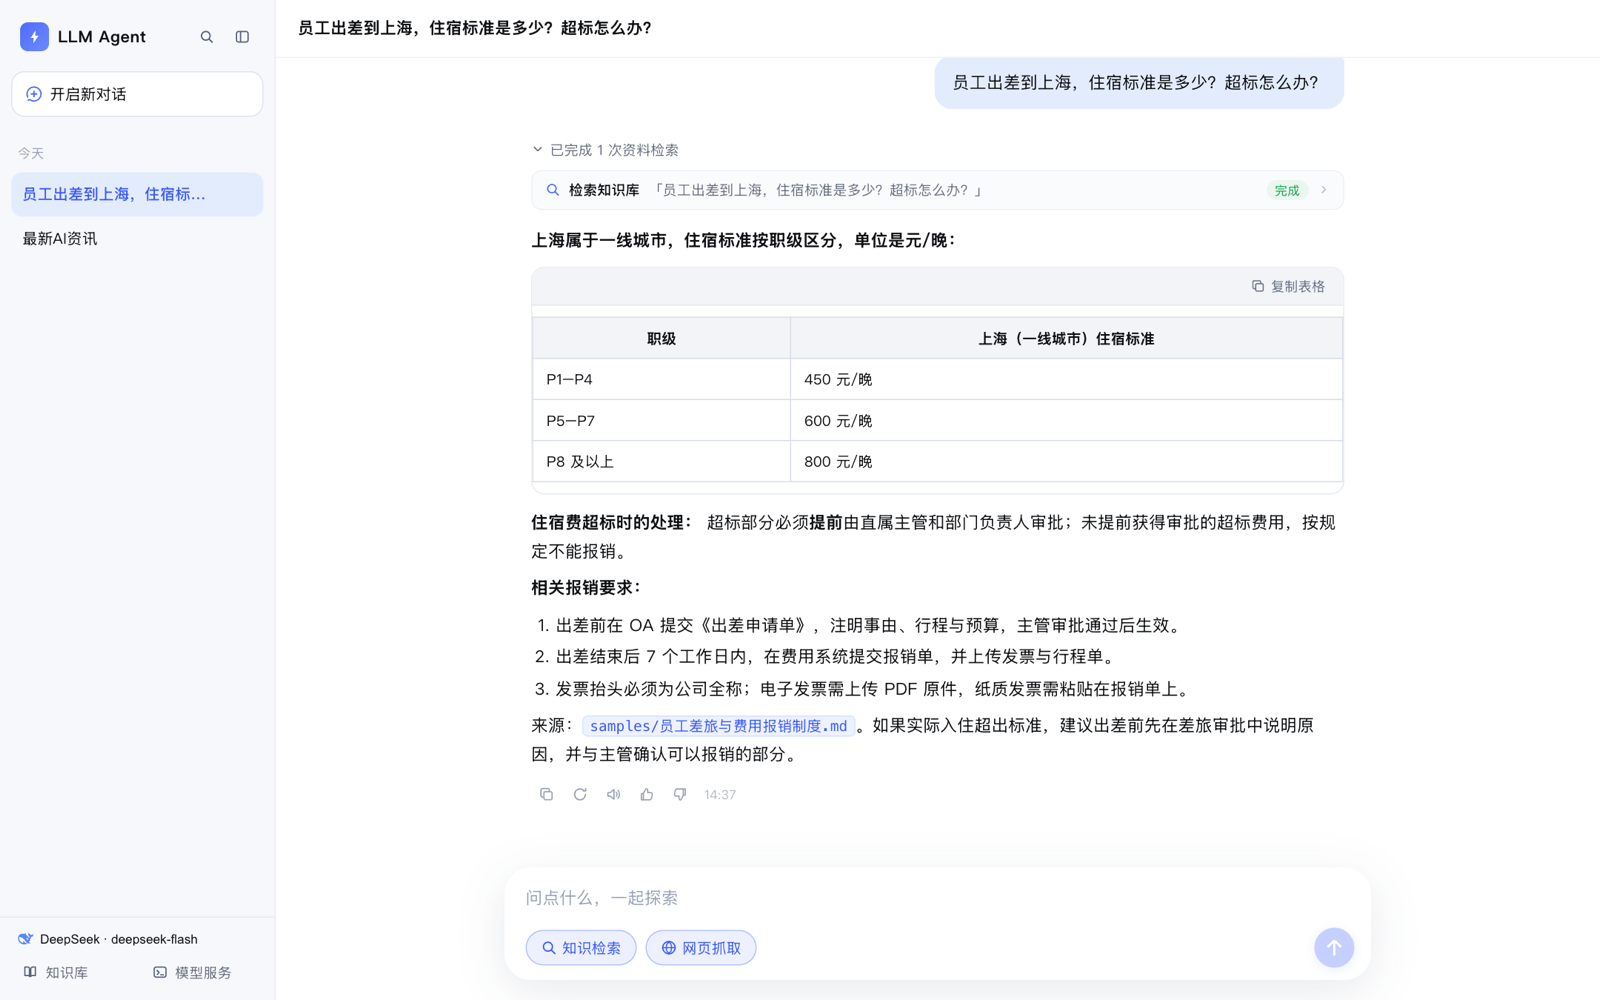
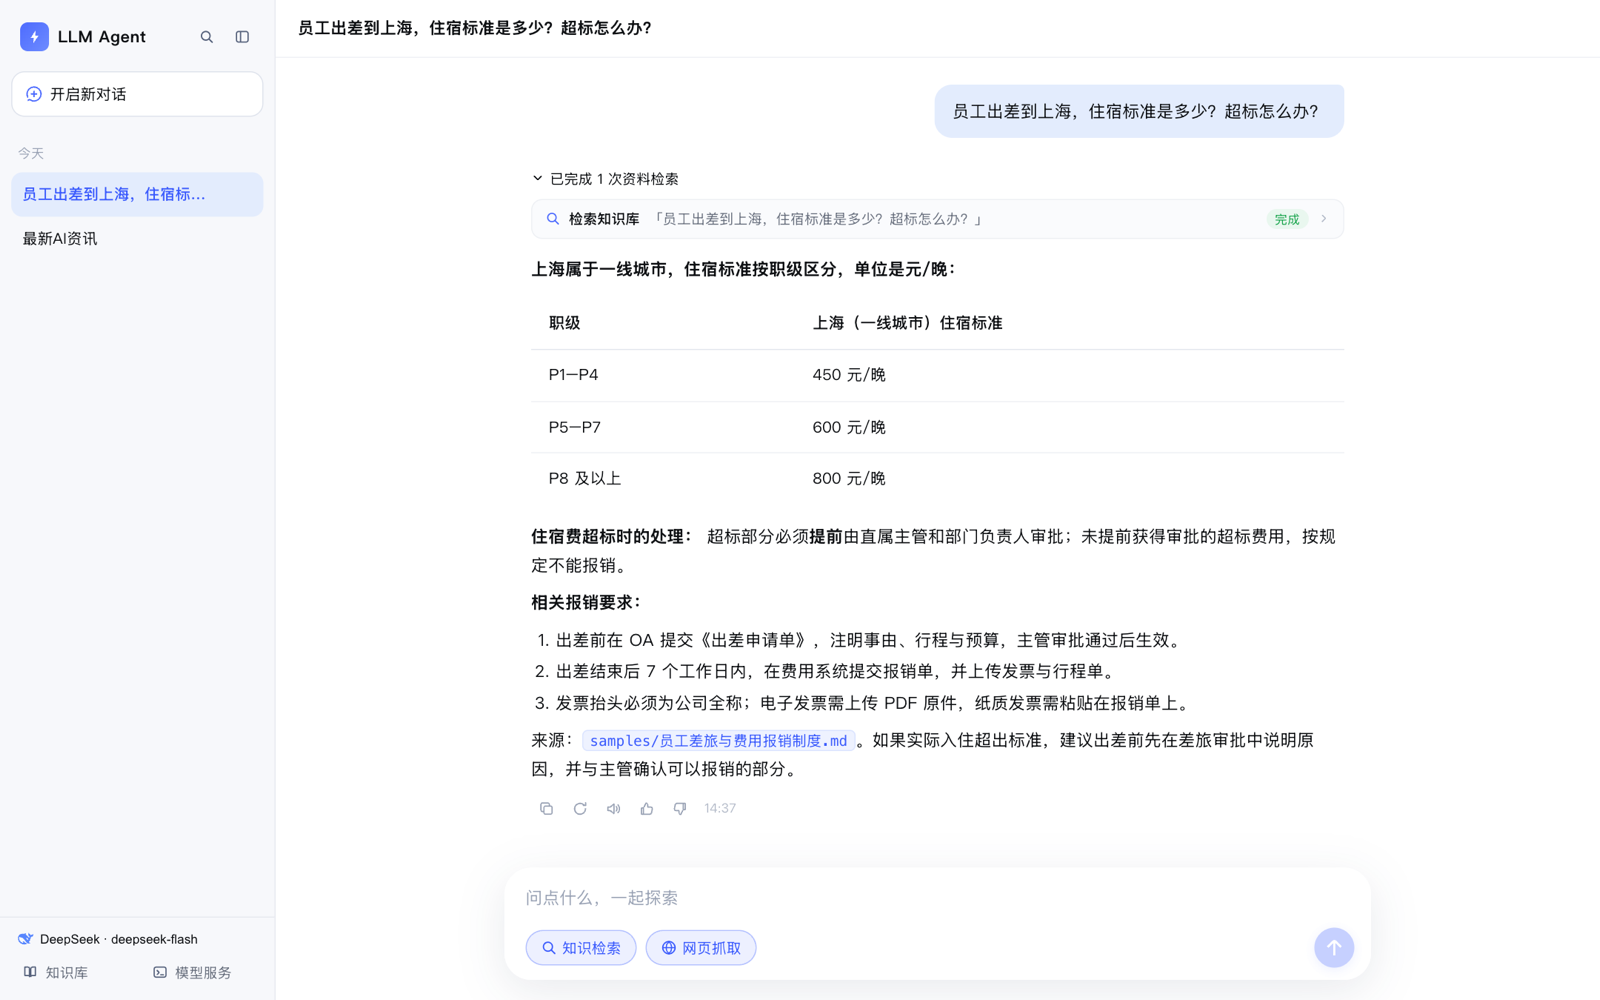
fix(ui): 表格改为 DeepSeek 式极简渲染，去掉卡片外框与顶部操作栏
- 无外边框/圆角卡片、无灰底表头栏，表头普通字重 + 细分割线
- 单元格去竖线，仅保留横向分隔线（末行无线），字号 14px、内边距加大
- 「复制表格」从常驻顶栏改为右上角悬停浮现的小图标（仍复制 CSV）
- 同步更新 README 对话截图

diff --git a/frontend/src/styles.css b/frontend/src/styles.css
@@ -692,14 +692,20 @@ body {
 .code-act.ok { color: #16a34a; }
 /* 表格（横向滚动 + 复制栏） */
 .md-table-wrap {
-  margin: 12px 0; border: 1px solid #e8eaf0; border-radius: 12px;
-  overflow: hidden; background: #fff;
+  position: relative;
+  margin: 14px 0 16px;
 }
-.md-table-bar {
-  display: flex; justify-content: flex-end;
-  padding: 5px 8px;
-  background: #f2f4f8; border-bottom: 1px solid #e8eaf0;
+/* 复制按钮：悬停浮现的小图标，不占版式（DeepSeek 式极简表格） */
+.md-table-copy {
+  position: absolute; top: -10px; right: -2px; z-index: 2;
+  width: 26px; height: 26px; border-radius: 7px; border: none;
+  background: rgba(255, 255, 255, 0.92); color: #9aa3b5; cursor: pointer;
+  display: grid; place-items: center;
+  opacity: 0; transition: opacity 0.15s, color 0.15s;
 }
+.md-table-wrap:hover .md-table-copy { opacity: 1; }
+.md-table-copy:hover { color: var(--accent); }
+.md-table-copy.ok { color: #157347; }
 .md-table-scroll { overflow-x: auto; }
 .md-table-scroll table { margin: 0; width: 100%; }
 .md-table-scroll th, .md-table-scroll td { white-space: nowrap; }
@@ -900,9 +906,24 @@ body {
   padding: 14px; overflow-x: auto; margin: 10px 0;
 }
 .bubble-md pre code { background: none; border: none; padding: 0; color: var(--text); }
-.bubble-md table { border-collapse: collapse; margin: 10px 0; width: 100%; }
-.bubble-md th, .bubble-md td { border: 1px solid var(--border-strong); padding: 7px 12px; font-size: 13px; }
-.bubble-md th { background: var(--bg-soft); }
+/* 表格：DeepSeek 式极简——无外框、无竖线、无斑马纹，只保留横向分隔线 */
+.bubble-md table { border-collapse: collapse; margin: 0; width: 100%; }
+.bubble-md th, .bubble-md td {
+  border: none;
+  border-bottom: 1px solid #eef0f4;
+  padding: 11px 16px;
+  font-size: 14px;
+  text-align: left;
+  vertical-align: top;
+}
+.bubble-md th {
+  background: none;
+  font-weight: 500;
+  color: var(--text);
+  border-bottom-color: #e4e7ee;
+  white-space: nowrap;
+}
+.bubble-md tr:last-child td { border-bottom: none; }
 .bubble-md blockquote {
   border-left: 3px solid var(--accent); padding: 2px 0 2px 14px;
   color: var(--text-dim); margin: 10px 0;

diff --git a/frontend/src/components/MarkdownView.tsx b/frontend/src/components/MarkdownView.tsx
@@ -185,12 +185,14 @@ function TableBlock({ children }: { children: React.ReactNode }) {
 
   return (
     <div className="md-table-wrap">
-      <div className="md-table-bar">
-        <button className={`code-act ${copied ? 'ok' : ''}`} onClick={copyCsv}>
-          {copied ? <IconCheck size={12} /> : <IconCopy size={13} />}
-          {copied ? '已复制' : '复制表格'}
-        </button>
-      </div>
+      <button
+        className={`md-table-copy ${copied ? 'ok' : ''}`}
+        onClick={copyCsv}
+        title={copied ? '已复制' : '复制表格（CSV）'}
+        aria-label={copied ? '已复制' : '复制表格'}
+      >
+        {copied ? <IconCheck size={13} /> : <IconCopy size={13} />}
+      </button>
       <div className="md-table-scroll">
         <table ref={tableRef}>{children}</table>
       </div>
